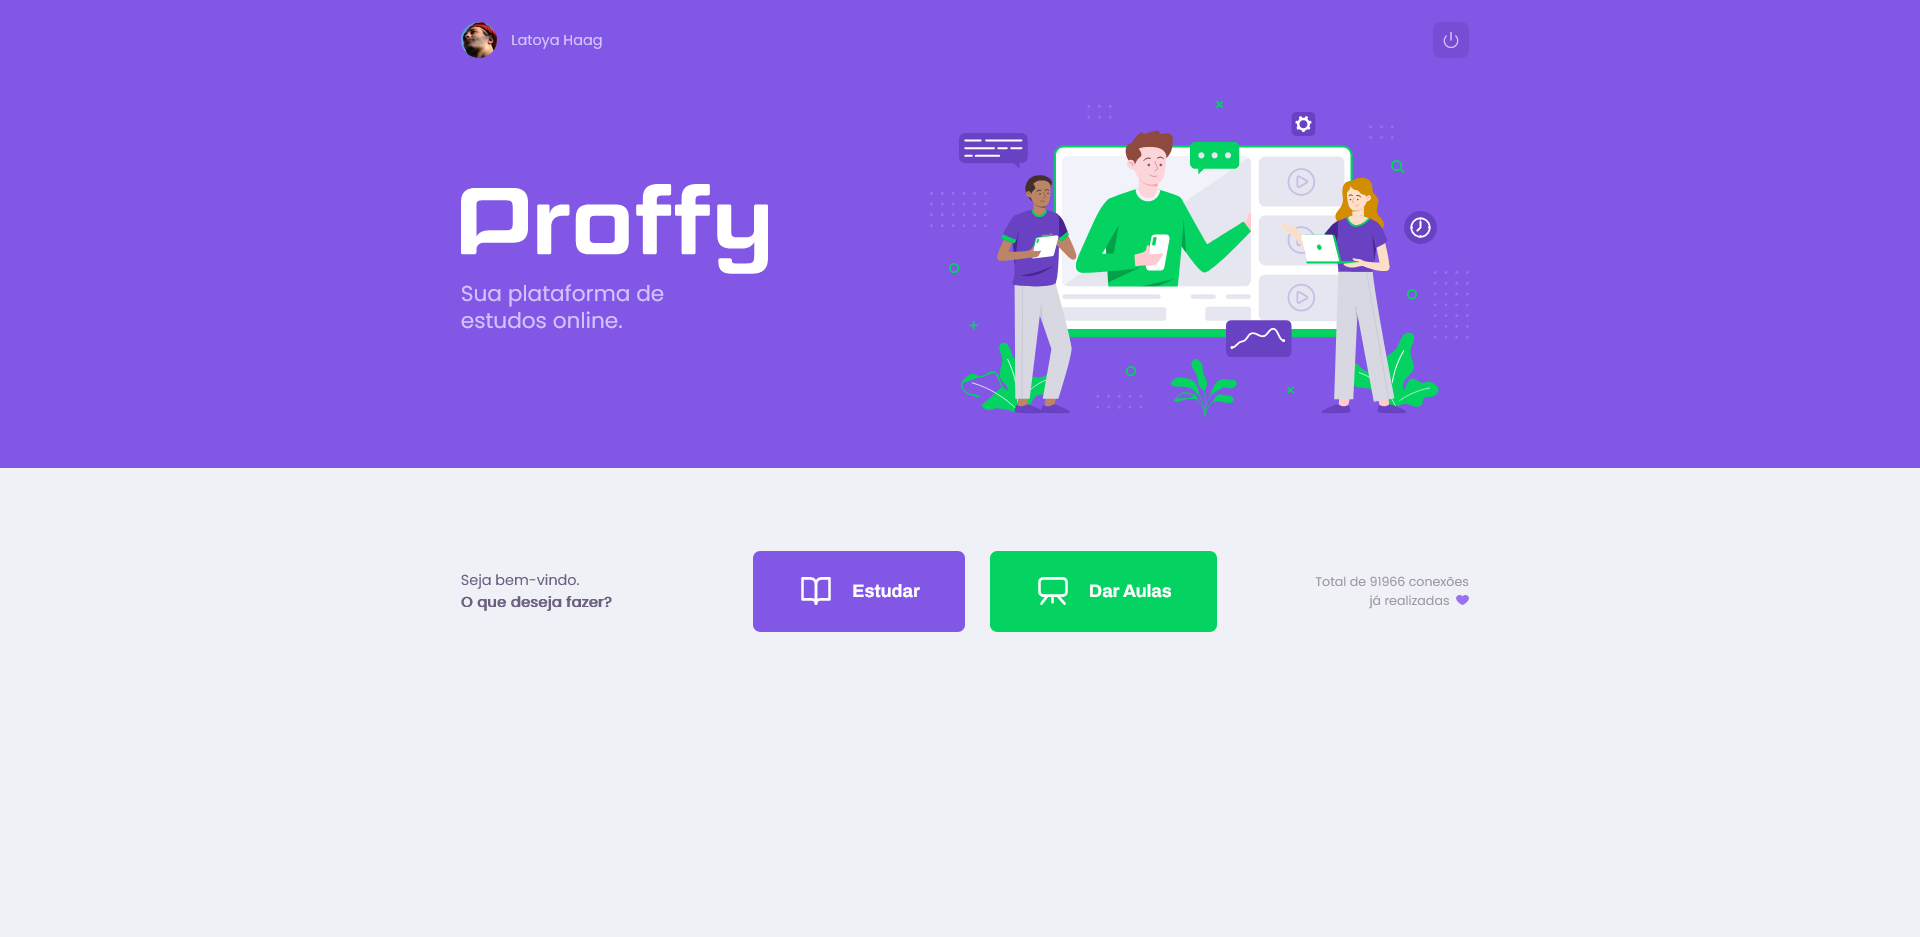
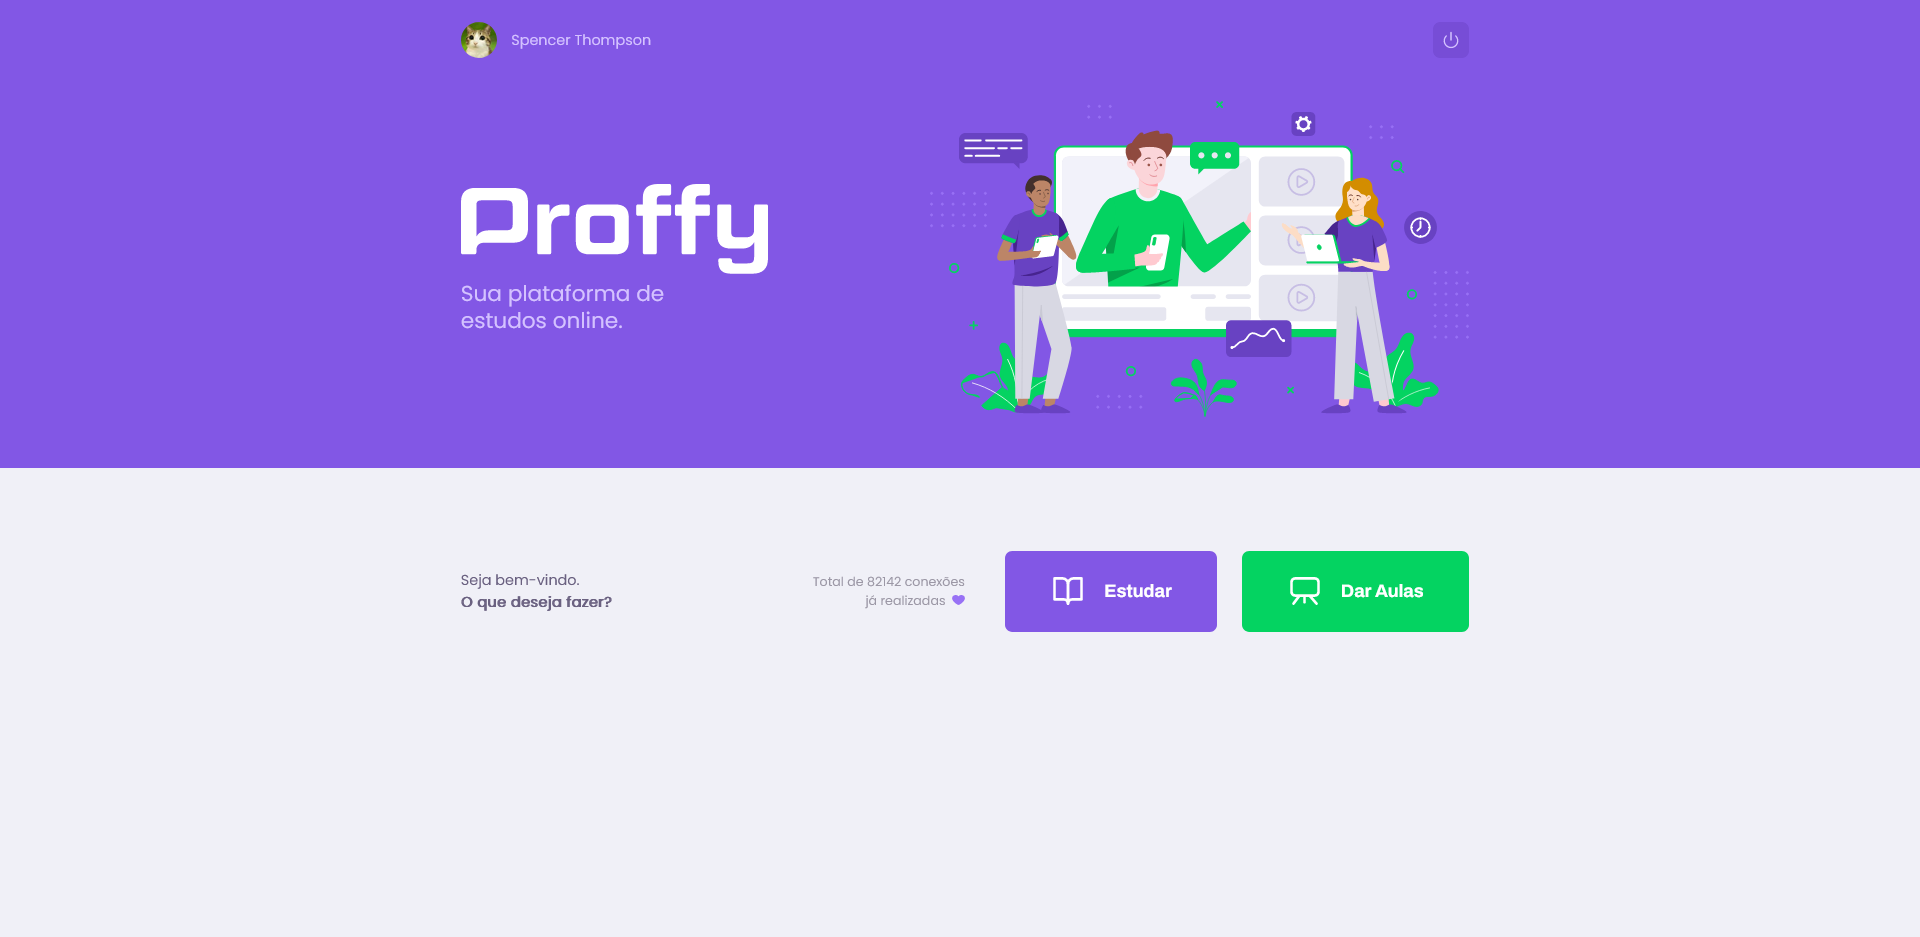
Update screenshots

Changed region(s): [[0.375, 0.588, 0.7812, 0.6809], [0.2188, 0.0309, 0.3438, 0.0619]]

diff --git a/README.md b/README.md
@@ -23,7 +23,7 @@ Click to expand.<br>
 <img src="https://raw.githubusercontent.com/DiegoVictor/proffy-web/main/screenshots/forgot.png" width="49%"/>
 <img src="https://raw.githubusercontent.com/DiegoVictor/proffy-web/main/screenshots/home.png" width="49%"/>
 <img src="https://raw.githubusercontent.com/DiegoVictor/proffy-web/main/screenshots/teachers.png" width="49%"/>
-<img src="https://raw.githubusercontent.com/DiegoVictor/proffy-web/main/screenshots/form.png" width="49%"/>
+<img src="https://raw.githubusercontent.com/DiegoVictor/proffy-web/main/screenshots/give-classes.png" width="49%"/>
 
 # Installing
 Easy peasy lemon squeezy:
